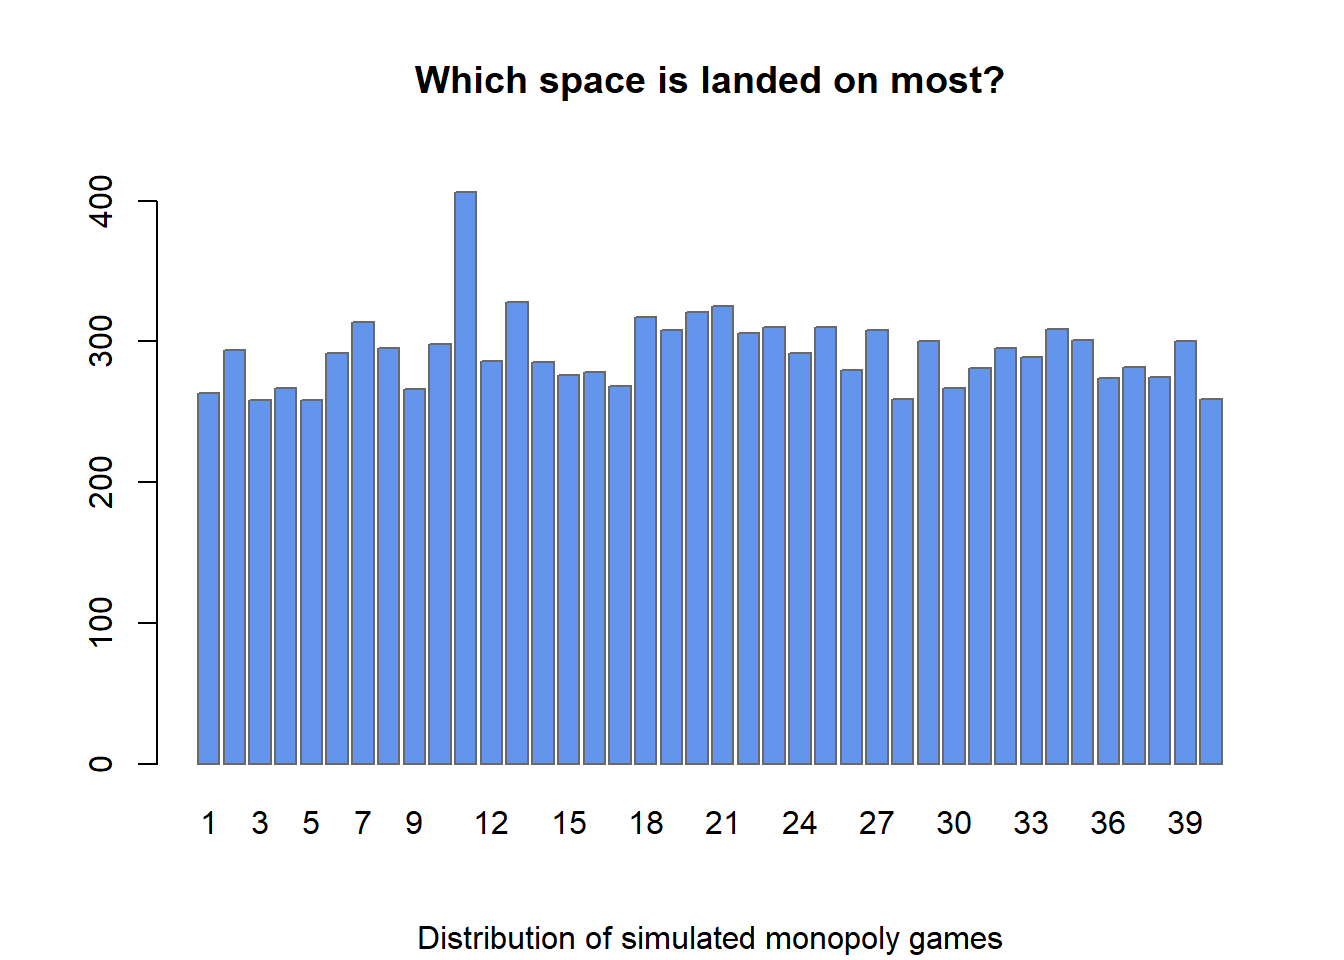
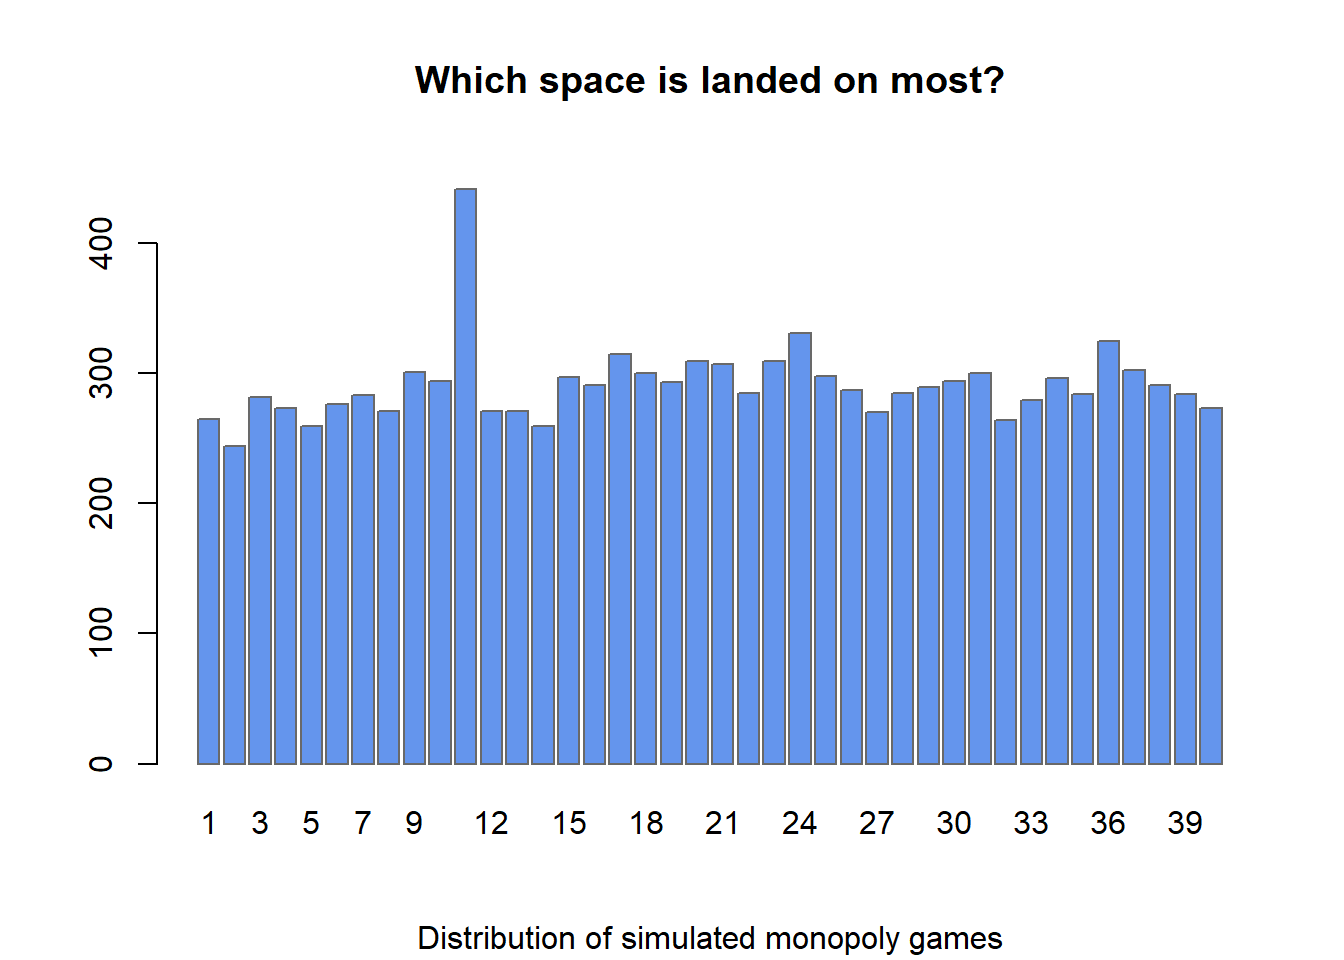
update docs page

diff --git a/docs/projects/partyGames.html b/docs/projects/partyGames.html
@@ -208,12 +208,12 @@ pre > code.sourceCode > span > a:first-child::before { text-decoration: underlin
 <pre><code>$winner
 winner
   1   2   3   4   5   6   7   8   9  10  11  12  13  14  15 
-108  98  91  96  91  99 109 106  96  96 104  92 116  95 103 
+105 106 108 130  97 104 101 105  96  92  88  97  97  85  89 
 
 $moves
 moves
   -6   -5   -4   -3   -2   -1    1    2    3    4    5    6 
-1855 1943 1914 1861 1936 1826 1827 1937 1936 1851 1834 1780 
+1918 1943 1968 1816 1788 1840 1895 1816 1849 1905 1848 1914 
 
 attr(,"class")
 [1] "elphSum" "list"   </code></pre>
@@ -242,44 +242,44 @@ attr(,"class")
 <span id="cb6-3"><a href="#cb6-3" aria-hidden="true" tabindex="-1"></a>monopolyGame</span></code><button title="Copy to Clipboard" class="code-copy-button"><i class="bi"></i></button></pre></div>
 <div class="cell-output cell-output-stdout">
 <pre><code>[[1]]
- [1] 14 10 16 17 16  9 15 14 12  8 28 10 14 17  9 19 23 12 13 18 17 14 13 16 16
-[26]  9 21  8 10 16 21 11 22 10  9 17 14 12 17 15
+ [1] 12  5 15 18 13 12 20 12 11 15 22 16 18  7 13 12 15 16 14 17 14 17 11 21 13
+[26] 13 12 14 19 18 14 15 17 16 11 12 17 10 14 20
 
 [[2]]
- [1]  8 20 17 12 13 11 14 14 15 12 26 23  7 16 11 20  7 18 24 13 14 14 17 15 16
-[26] 16 12 14 11 20 14 16 15 18 11 11 14 14 13 10
+ [1] 14 12 13 10 19 10 15 17 14 16 24 11 12  7 24 14 11 15 19 12 16 19 21 10 13
+[26]  9 14 11 16 19 12 16  8 20 15 10 19 16 10  8
 
 [[3]]
- [1]  9 12 13 19 15 24 13 12 13 12 21 16 11 14 19 12 18 17 13 15 16 15 16 16 21
-[26]  9 18 19 13 15 10 12 11 14 18 19 20 13 10 14
+ [1] 13 13 15 14 12 17 11  9 12 23 19 17 15  8  8 13 23 20 18 11 12 16 14 16 14
+[26] 17  9 11 19 10 16 13 13 10 22 19  9 11 20  9
 
 [[4]]
- [1] 10 18 11 11 18 12 17 11 13 10 18 16 13 16 16 17 17 16 10 17 14 15 18 15 15
-[26] 19  8 14 19 18  8 17 13 12 18 14 14 12 15 14
+ [1] 18  8 17 13 13 10  9 12 15 21 18 16  9 16 15 18 14 15  7 17 17 17 15 18 12
+[26] 12 19 10 11 18 18 19  9 15 13 14 21 15 13 10
 
 [[5]]
- [1] 11 10 20 19 14 13 13  8 21  6 23 18 12  9 16 16 17 13  9 27 19 15 14 11 17
-[26] 22 17 13 11  5 16 16 17 16 13  7 15 19 12 10
+ [1] 10 14 15 13 14 14 11 26 18 13 22  7 15 10 23 15 13 15 10 11 15 18 21  8 16
+[26]  9 12 17 13 19  8 10 13 14 17 14  8 11 16 15
 
 [[6]]
- [1] 15 18 16 11 10 15 14 13 13 17 19 17  7 17 13 13 21 11 12 19 12 19  9 10 20
-[26] 15 21 14 12 14 15 16 14 17 18 14  7 15  7 16
+ [1] 14 10  8 14 13 15 20 11  7 18 21 15 18 12 13 11 16 19 16 18 16 18 14 11 12
+[26] 20  8 21 18 12 12 12 14 19 14 19 11 15 13 18
 
 [[7]]
- [1] 14 16 14 14 11 17  9 13 14 11 25 14 14 10 13 16 19 14 12 15 18 20 15 14 11
-[26] 16 20  7 15 11 11 19 13 18 18 16  7 15 16 12
+ [1] 11 10 10 15 15 16 14 13 15  9 28 13 10 12 14 10 16 21 15 21 14 11 14 14 25
+[26] 14  6 19 21 11  7 16 10 17 17 13 23 13 17 13
 
 [[8]]
- [1] 22 11 10 16 15  9 17 13 22  9 21 14 12 16 19 14 17 14 16 14 13 16  9 19 16
-[26] 20  5 16 15 10  9 20 18 19 17 13 15 12 10 12
+ [1] 19 12  8 16 13 22 15 14 13 11 17 15 17 16 20 12 16 15 12 10 23 20 16 12 13
+[26] 15  8 19 14 15 15 13 15 16 17 13  6 25 14 12
 
 [[9]]
- [1] 10 12 17 16 11 18 17 15 12 10 19 12 17 14 10 22 19 13 14 15 13 15 25 17 16
-[26]  8 13 12 19  9 13 21 14  7 16 19 20 10  9 15
+ [1] 16 14 18 11 10 14 19 18 13 19 16 11  9 14 13 14 19 16 15 14 14 25 16 13 14
+[26] 10 13 17 16 10 12 13 21  9 19 18 11 10 15 13
 
 [[10]]
- [1] 20 11 11 10 12 16 16 15 16 18 23  7 19 12 14 19 18  7 15 18 13 15 15 11 14
-[26] 14 24 10 12 12  9 20 13 16 16 17 16 12 15 11
+ [1] 21 14 13 16 15 17  8 17 15 15 25  9 11 11 19 21 11 18 15 13 14 15 12 15 19
+[26] 17 13 14 11  8 19  9 14 22 12 11 16 16 12  6
 
 attr(,"class")
 [1] "monopoly" "list"    </code></pre>
@@ -287,9 +287,9 @@ attr(,"class")
 <div class="sourceCode cell-code" id="cb8"><pre class="sourceCode r code-with-copy"><code class="sourceCode r"><span id="cb8-1"><a href="#cb8-1" aria-hidden="true" tabindex="-1"></a><span class="fu">summary.monopoly</span>(monopolyGame)</span></code><button title="Copy to Clipboard" class="code-copy-button"><i class="bi"></i></button></pre></div>
 <div class="cell-output cell-output-stdout">
 <pre><code>  1   2   3   4   5   6   7   8   9  10  11  12  13  14  15  16  17  18  19  20 
-133 138 145 145 135 144 145 128 151 113 223 147 126 141 140 168 176 135 138 171 
+148 112 132 140 137 147 142 149 133 160 212 130 134 113 162 140 154 170 141 144 
  21  22  23  24  25  26  27  28  29  30  31  32  33  34  35  36  37  38  39  40 
-149 158 151 144 162 148 159 127 137 130 126 168 150 147 154 147 142 134 124 129 
+155 176 154 138 151 136 114 153 158 140 133 136 134 158 157 143 141 142 144 124 
 attr(,"class")
 [1] "monoSum" "numeric"</code></pre>
 </div>
@@ -313,9 +313,9 @@ attr(,"class")
 <span id="cb11-7"><a href="#cb11-7" aria-hidden="true" tabindex="-1"></a><span class="fu">summary.monopoly</span>(monoParallel)</span></code><button title="Copy to Clipboard" class="code-copy-button"><i class="bi"></i></button></pre></div>
 <div class="cell-output cell-output-stdout">
 <pre><code>  1   2   3   4   5   6   7   8   9  10  11  12  13  14  15  16  17  18  19  20 
-263 294 258 267 258 292 314 295 266 298 406 286 328 285 276 278 268 317 308 321 
+265 244 282 273 259 276 283 271 301 294 441 271 271 259 297 291 315 300 293 309 
  21  22  23  24  25  26  27  28  29  30  31  32  33  34  35  36  37  38  39  40 
-325 306 310 292 310 280 308 259 300 267 281 295 289 309 301 274 282 275 300 259 
+307 285 309 331 298 287 270 285 289 294 300 264 279 296 284 325 302 291 284 273 
 attr(,"class")
 [1] "monoSum" "numeric"</code></pre>
 </div>

diff --git a/docs/index.html b/docs/index.html
@@ -35,7 +35,6 @@ ul.task-list li input[type="checkbox"] {
 <script src="site_libs/quarto-html/quarto.js"></script>
 <script src="site_libs/quarto-html/popper.min.js"></script>
 <script src="site_libs/quarto-html/tippy.umd.min.js"></script>
-<script src="site_libs/quarto-html/anchor.min.js"></script>
 <link href="site_libs/quarto-html/tippy.css" rel="stylesheet">
 <link href="site_libs/quarto-html/quarto-syntax-highlighting-29e2c20b02301cfff04dc8050bf30c7e.css" rel="stylesheet" id="quarto-text-highlighting-styles">
 <script src="site_libs/bootstrap/bootstrap.min.js"></script>
@@ -131,7 +130,7 @@ window.Quarto = {
 <link rel="stylesheet" href="styles.css">
 </head>
 
-<body class="nav-fixed">
+<body class="nav-fixed fullcontent">
 
 <div id="quarto-search-results"></div>
   <header id="quarto-header" class="headroom fixed-top">
@@ -171,36 +170,21 @@ window.Quarto = {
 <div id="quarto-content" class="quarto-container page-columns page-rows-contents page-layout-article page-navbar">
 <!-- sidebar -->
 <!-- margin-sidebar -->
-    <div id="quarto-margin-sidebar" class="sidebar margin-sidebar zindex-bottom">
-        
-    </div>
+    
 <!-- main -->
-<main class="content" id="quarto-document-content">
-
-<header id="title-block-header" class="quarto-title-block default">
+<div class="quarto-about-jolla">
+  <img src="dubose_headshot.jpg" class="about-image
+  round " style="height: 15em; width: 15em;">
+ <header id="title-block-header" class="quarto-title-block default">
 <div class="quarto-title">
 <h1 class="title">Welcome</h1>
 </div>
-
-
-
 <div class="quarto-title-meta">
-
-    
-  
-    
   </div>
-  
-
-
-</header>
-
-
+</header><main class="content" id="quarto-document-content">
 <p>Welcome to my website! Here you will find previous projects, current projects I can share, contact information, and more!</p>
 <p>If there are any questions, comments, or concerns, please feel free to <a href="mailto:kline.dubose@utah.edu">contact me</a>.</p>
 <p>The following is currently available:</p>
-
-
 
 
 <div class="quarto-listing quarto-listing-container-table" id="listing-listing">
@@ -249,7 +233,32 @@ window.Quarto = {
 <div class="listing-no-matching d-none">
 No matching items
 </div>
-</div></main> <!-- /main -->
+</div></main> 
+  <hr class="about-sep">
+   <div class="about-links">
+  <a href="https://x.com/KlineDuBose" class="about-link" rel="" target="">
+    <i class="bi bi-twitter-x"></i>
+     <span class="about-link-text">X</span>
+  </a>
+  <a href="https://github.com/KPDuBose" class="about-link" rel="" target="">
+    <i class="bi bi-github"></i>
+     <span class="about-link-text">GitHub</span>
+  </a>
+  <a href="https://www.linkedin.com/in/kline-dubose/" class="about-link" rel="" target="">
+    <i class="bi bi-linkedin"></i>
+     <span class="about-link-text">LinkedIn</span>
+  </a>
+  <a href="mailto:kline.dubose@utah.edu" class="about-link" rel="" target="">
+    <i class="bi bi-envelope"></i>
+     <span class="about-link-text">E-Mail</span>
+  </a>
+  <a href="/cv.pdf" class="about-link" rel="" target="">
+    <i class="bi bi-file-earmark-arrow-down"></i>
+     <span class="about-link-text">CV</span>
+  </a>
+</div>
+</div>
+ <!-- /main -->
 <script id="quarto-html-after-body" type="application/javascript">
 window.document.addEventListener("DOMContentLoaded", function (event) {
   const toggleBodyColorMode = (bsSheetEl) => {
@@ -270,13 +279,6 @@ window.document.addEventListener("DOMContentLoaded", function (event) {
     }
   }
   toggleBodyColorPrimary();  
-  const icon = "";
-  const anchorJS = new window.AnchorJS();
-  anchorJS.options = {
-    placement: 'right',
-    icon: icon
-  };
-  anchorJS.add('.anchored');
   const isCodeAnnotation = (el) => {
     for (const clz of el.classList) {
       if (clz.startsWith('code-annotation-')) {                     
